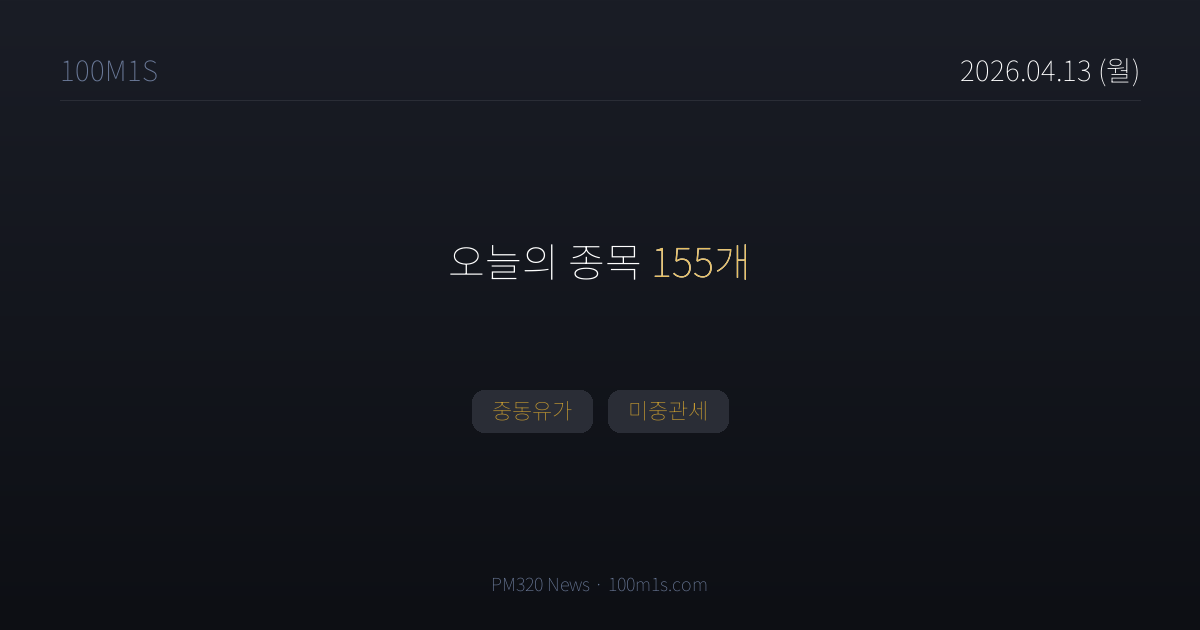
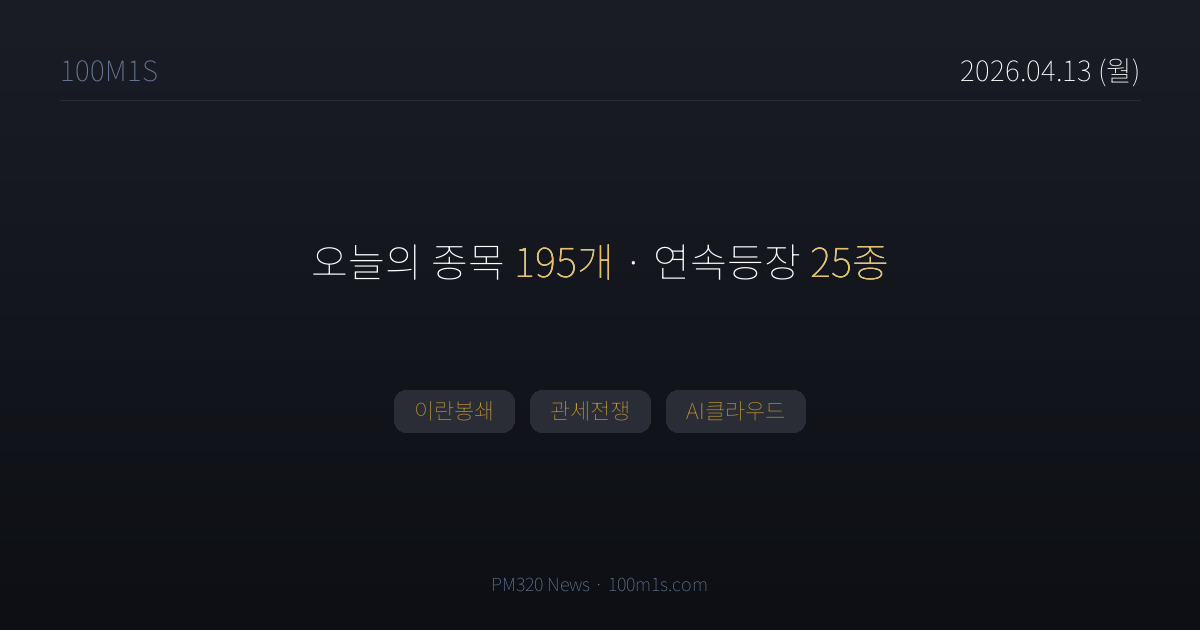
chore(news): 2026-04-13T23:29 pipeline

Changed region(s): [[0.3083, 0.6032, 0.6783, 0.6937], [0.2467, 0.3921, 0.74, 0.4524]]

diff --git a/news/2026-04-13.html b/news/2026-04-13.html
@@ -3,8 +3,8 @@
 <head>
 <meta charset="UTF-8">
 <title>4월 13일 (월) 뉴스 — 100M1S</title>
-<meta property="og:title" content="4월 13일 (월) · 종목 155개">
-<meta property="og:description" content="중동유가, 미중관세">
+<meta property="og:title" content="4월 13일 (월) · 종목 195개">
+<meta property="og:description" content="이란봉쇄, 관세전쟁, AI클라우드">
 <meta property="og:image" content="https://100m1s.com/og/2026-04-13.png">
 <meta property="og:image:width" content="1200">
 <meta property="og:image:height" content="630">
